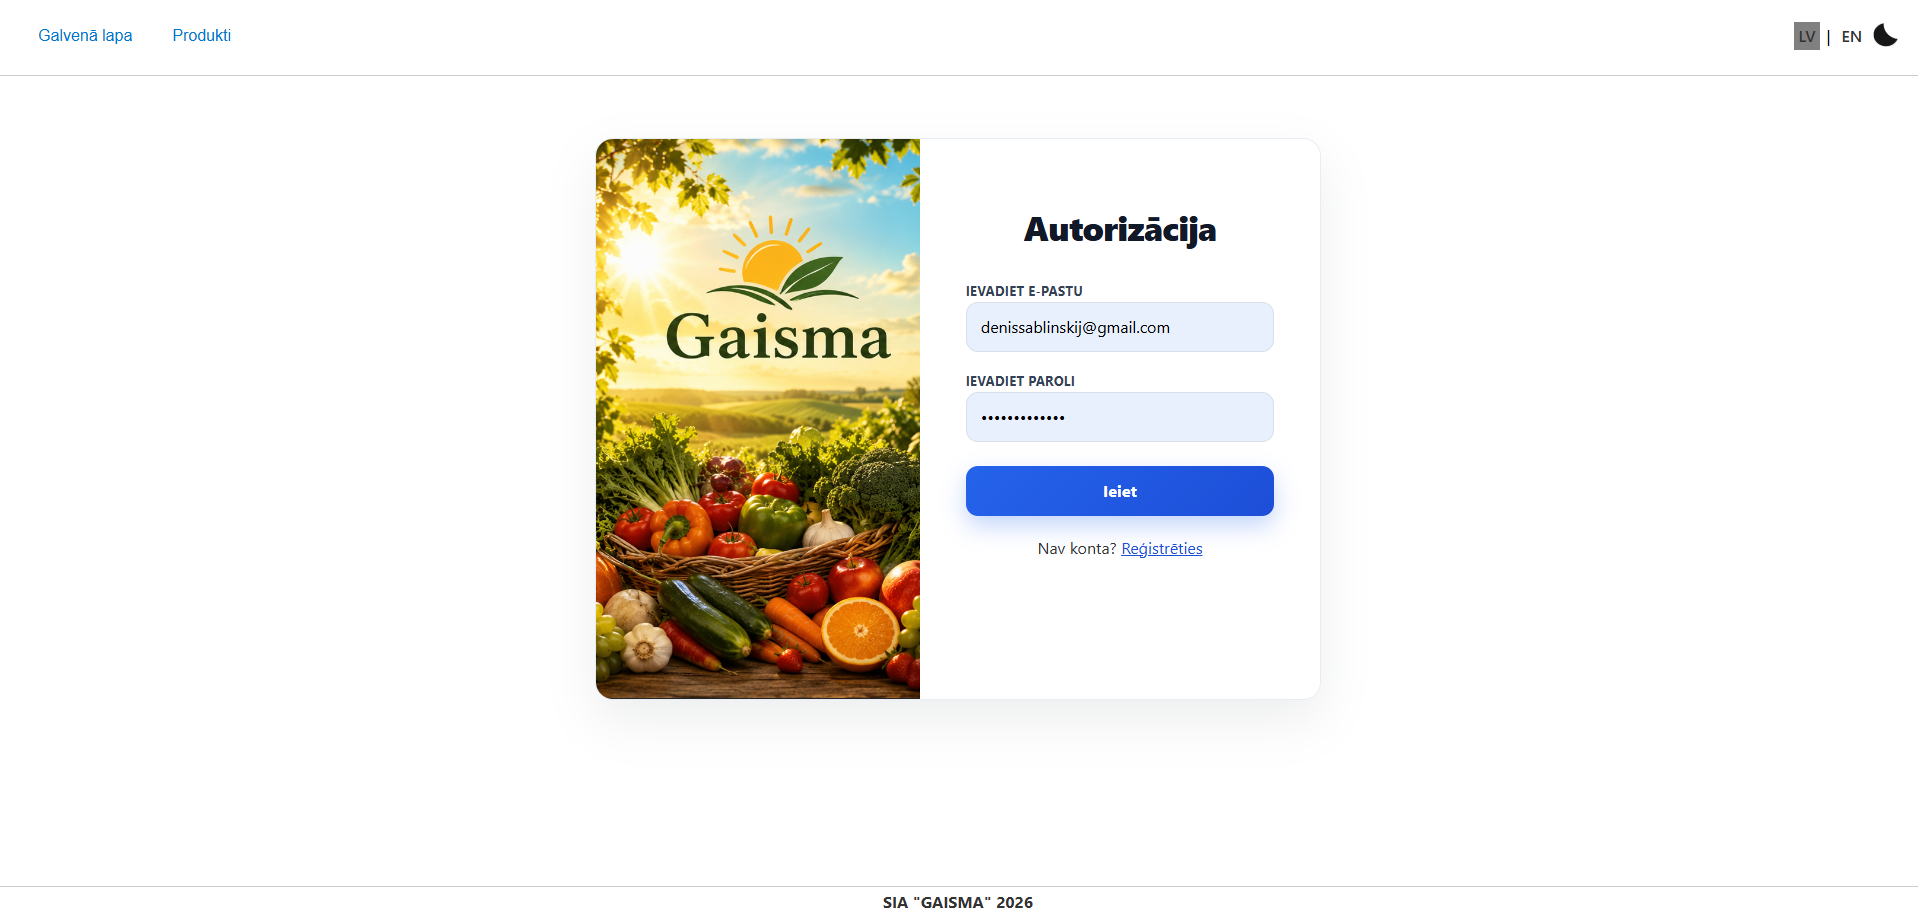
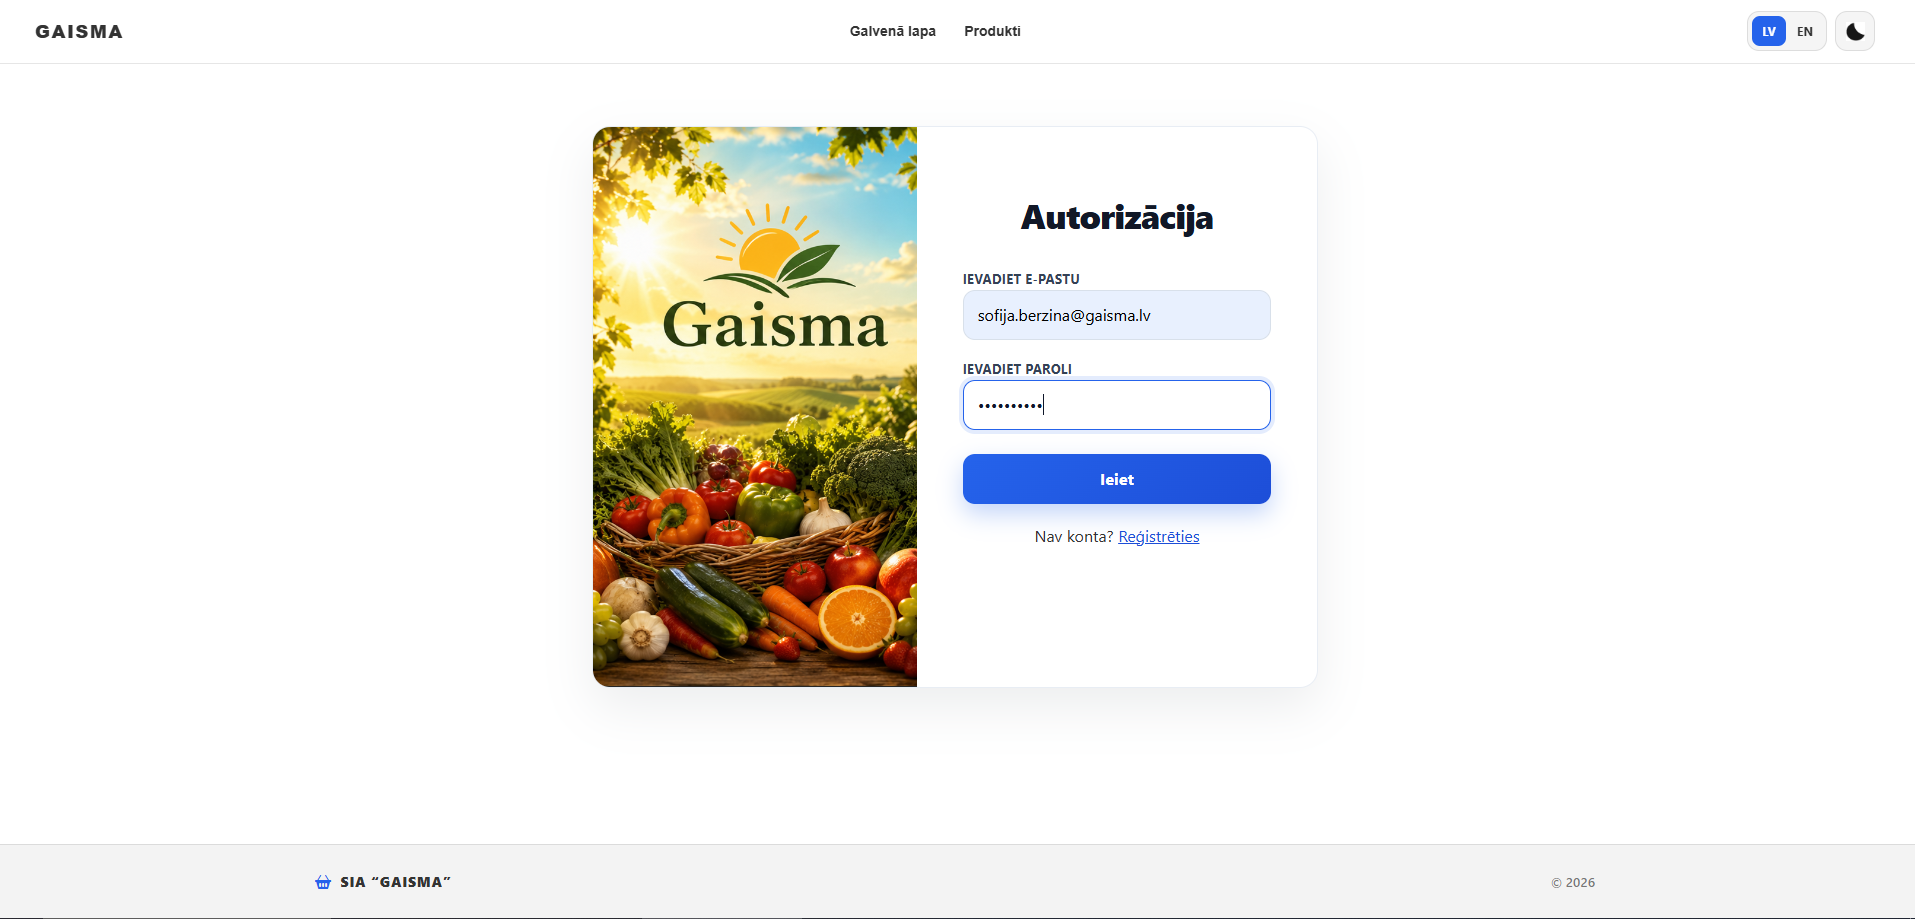
docs: enhance project documentation

diff --git a/README.md b/README.md
@@ -282,7 +282,20 @@ See the [Testing Results](tests.md) for the full list of tests and their results
 
 ![login](screenshots/login.png)
 ![register](screenshots/register.png)
+![main](screenshots/main.png)
+![profile](screenshots/profile.png)
+![edit_profile](screenshots/edit_profile.png)
+![edit_profile_en](screenshots/edit_profile_en.png)
+![orders](screenshots/orders.png)
+![orders_mobile](screenshots/orders_mobile.png)
 ![products](screenshots/products.png)
-![login-mobile](screenshots/login-mobile.png)
-![register-mobile](screenshots/register-mobile.png)
-![products-mobile](screenshots/products-mobile.png)
+![products_dark](screenshots/products_dark.png)
+![cart](screenshots/cart.png)
+![checkout](screenshots/checkout.png)
+![invoice](screenshots/pdf_invoice.png)
+![admin_orders](screenshots/admin_orders.png)
+![admin_products](screenshots/admin_products.png)
+![admin_users](screenshots/admin_users.png)
+![operator](screenshots/operator.png)
+![courier](screenshots/courier.png)
+
